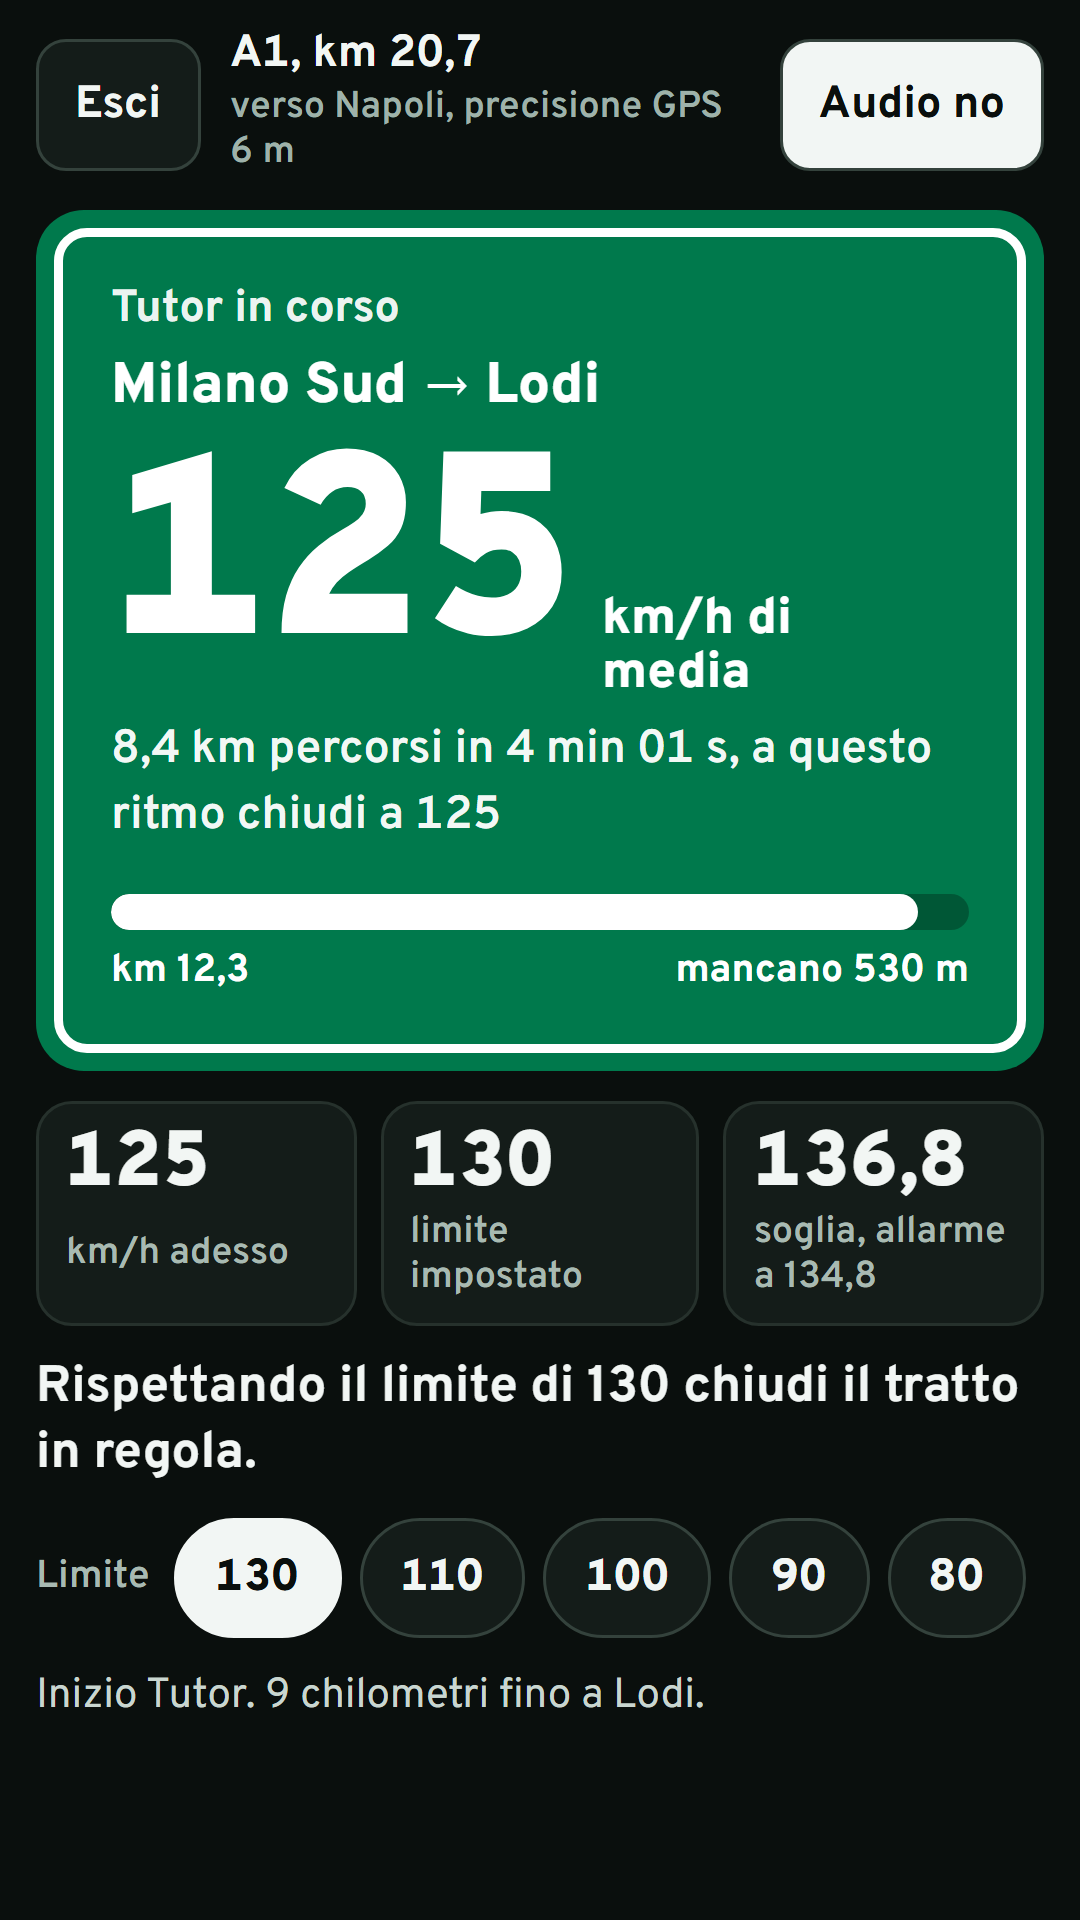
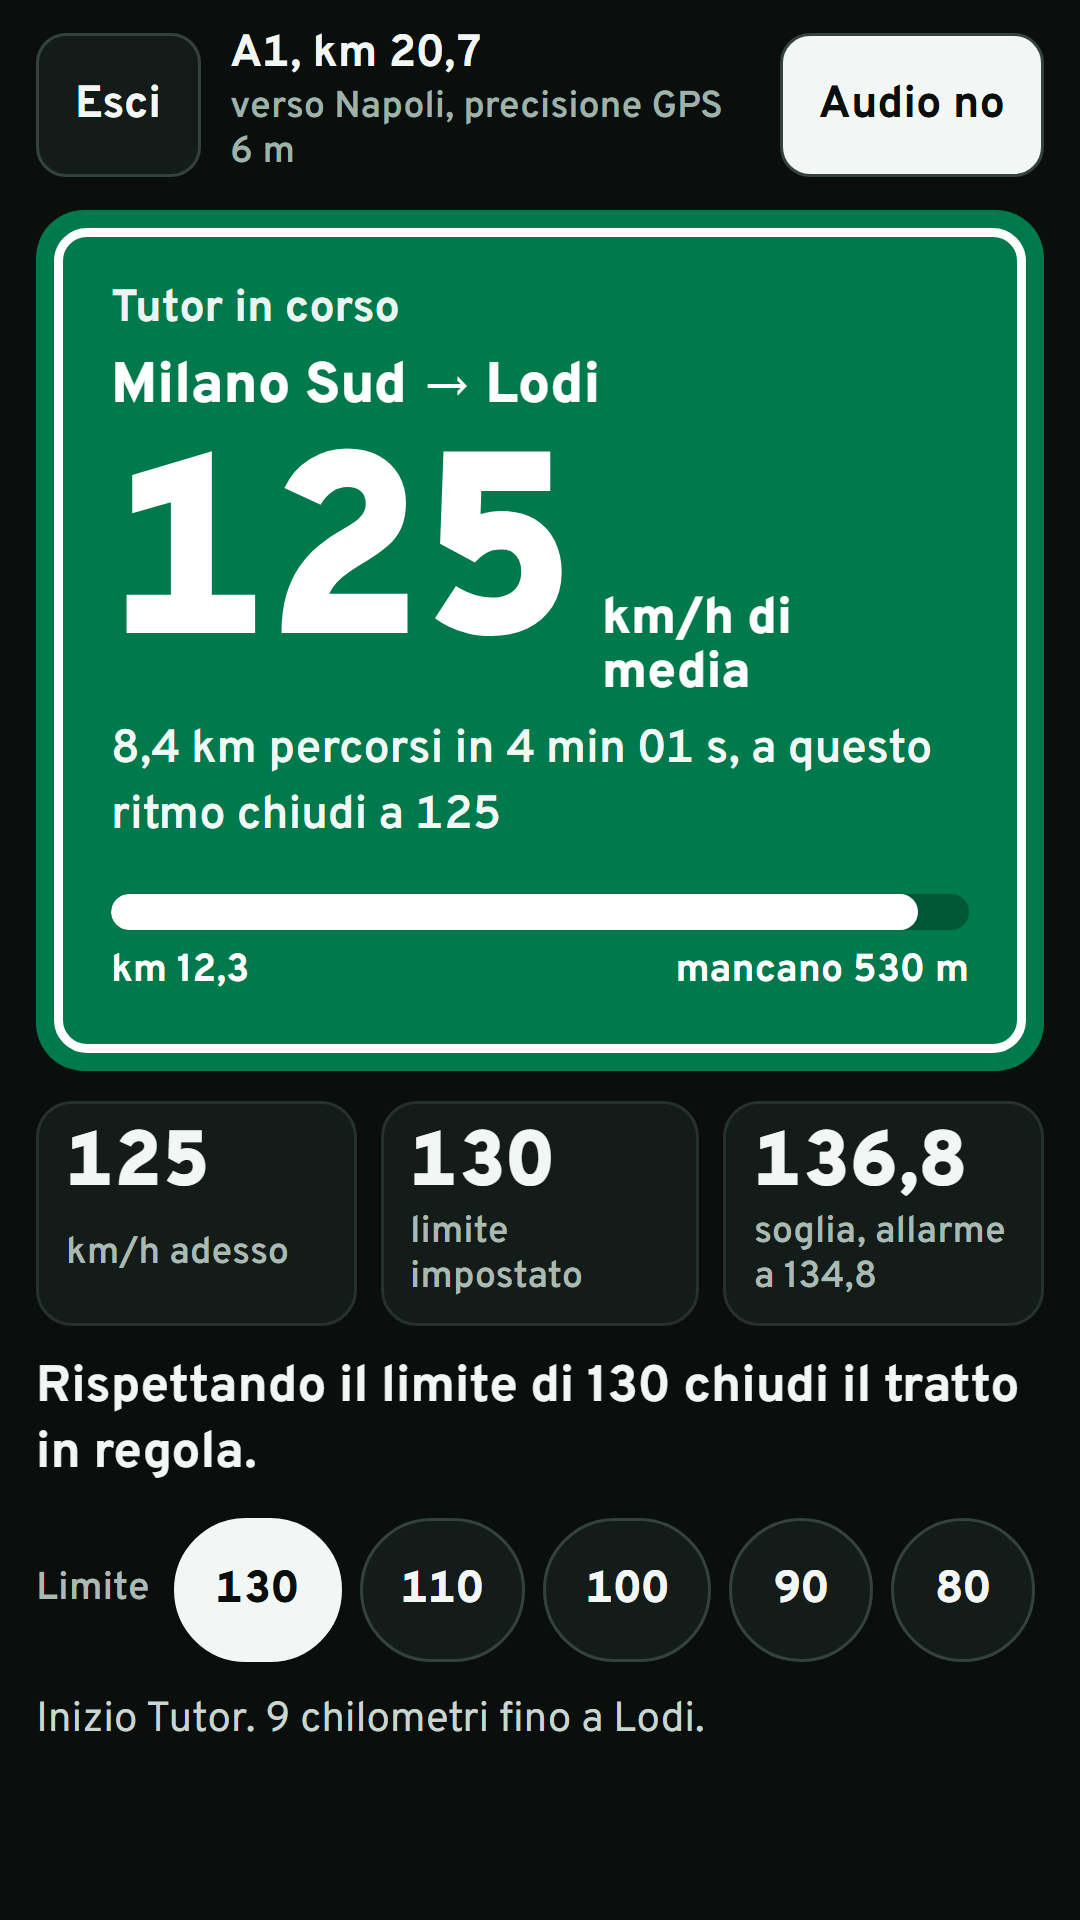
Contrasto almeno 4,5 e pulsanti di almeno 48 px
- Tema scuro: testo grigio più chiaro (#B8B4AB), rosso delle medie oltre la soglia più chiaro (#FF8F85),
  testo scuro sul pulsante verde (era bianco, contrasto 3,3).
- Pulsanti, scelte, menù a tendina, cursore del margine e righe con l'interruttore alti almeno 48 px;
  le scelte con un numero solo ("90", "×1") anche larghe almeno 48 px.
- test/accessibilita.test.js controlla contrasto e misure sullo stile, in tutti e due i temi.
- Il collaudo sul telefono ora segnala come errore contrasto sotto 4,5 e cose da toccare sotto 48 px,
  e misura anche la schermata di guida prima del portale, in allarme e a fine tratto.
- Schermate per il Play Store rifatte.

diff --git a/index.html b/index.html
@@ -29,20 +29,20 @@
 }
 @media (prefers-color-scheme: dark){
   :root:not([data-theme="light"]){
-    --bg:#2B2D30; --panel:#35383C; --panel-2:#3E4146; --ink:#ECE9E1; --muted:#ABA79E; --line:#4B4F55;
+    --bg:#2B2D30; --panel:#35383C; --panel-2:#3E4146; --ink:#ECE9E1; --muted:#B8B4AB; --line:#4B4F55;
     --road:#CFCBC0; --sign-shadow:rgba(0,0,0,.5); --tint:#24402F;
-    --brand:#17A06A; --brand-2:#0E7A4F; --on-brand:#FFFFFF;
+    --brand:#17A06A; --brand-2:#1DB97B; --on-brand:#06140D;
     --sud:#F06292; --nord:#64B5F6;
-    --focus:#8AB4F8; --ok:#4CD38A; --warn:#F2B21E; --bad:#FF6B61;
+    --focus:#8AB4F8; --ok:#4CD38A; --warn:#F2B21E; --bad:#FF8F85;
     color-scheme:dark;
   }
 }
 :root[data-theme="dark"]{
-  --bg:#2B2D30; --panel:#35383C; --panel-2:#3E4146; --ink:#ECE9E1; --muted:#ABA79E; --line:#4B4F55;
+  --bg:#2B2D30; --panel:#35383C; --panel-2:#3E4146; --ink:#ECE9E1; --muted:#B8B4AB; --line:#4B4F55;
   --road:#CFCBC0; --sign-shadow:rgba(0,0,0,.5); --tint:#24402F;
-  --brand:#17A06A; --brand-2:#0E7A4F; --on-brand:#FFFFFF;
+  --brand:#17A06A; --brand-2:#1DB97B; --on-brand:#06140D;
   --sud:#F06292; --nord:#64B5F6;
-  --focus:#8AB4F8; --ok:#4CD38A; --warn:#F2B21E; --bad:#FF6B61;
+  --focus:#8AB4F8; --ok:#4CD38A; --warn:#F2B21E; --bad:#FF8F85;
   color-scheme:dark;
 }
 html{height:100%; background:var(--bg); scroll-padding-top:env(safe-area-inset-top,0px)}
@@ -112,17 +112,17 @@ svg{flex:none}
 .menu-foot{padding:16px 24px 28px; margin:0}
 
 .btn{appearance:none; border:1.5px solid var(--line); background:var(--panel-2); color:var(--ink);
-  padding:11px 14px 9px; border-radius:10px; font-weight:700; font-size:15px; cursor:pointer; min-height:46px; text-align:center}
+  padding:11px 14px 9px; border-radius:10px; font-weight:700; font-size:15px; cursor:pointer; min-height:48px; text-align:center}
 .btn:hover{border-color:var(--muted)}
 .btn-primary{background:var(--brand); border-color:var(--brand); color:var(--on-brand)}
 .btn-primary:hover{background:var(--brand-2); border-color:var(--brand-2)}
-.btn-small{min-height:36px; padding:7px 11px 5px; font-size:14px; border-radius:8px}
+.btn-small{min-height:48px; padding:7px 11px 5px; font-size:14px; border-radius:8px}
 .note{border-left:4px solid var(--warn); background:var(--panel); padding:10px 12px; border-radius:6px; font-size:14px; margin:0}
 .note.good{border-left-color:var(--ok)}
 
 .simsetup{display:grid; gap:12px}
 .simsetup label{display:grid; gap:5px; font-weight:600; font-size:14px}
-.simsetup select,.simsetup input[type=number]{width:100%; padding:9px 10px; border-radius:8px; border:1.5px solid var(--line); background:var(--panel-2); min-height:44px}
+.simsetup select,.simsetup input[type=number]{width:100%; padding:9px 10px; border-radius:8px; border:1.5px solid var(--line); background:var(--panel-2); min-height:48px}
 .row{display:flex; gap:10px; align-items:center; flex-wrap:wrap}
 
 /* ---------- tratti: filtri ed elenco (pagina Simulazione) ---------- */
@@ -131,7 +131,7 @@ svg{flex:none}
 .lede{margin:0; color:var(--muted); font-size:14px; max-width:52ch}
 .filters{display:grid; gap:8px}
 .filter{display:flex; gap:6px; flex-wrap:wrap}
-.chip{appearance:none; border:1.5px solid var(--line); background:var(--panel); padding:6px 12px 4px; border-radius:999px; cursor:pointer; font-weight:600; font-size:14px; display:inline-flex; gap:7px; align-items:center; min-height:38px}
+.chip{appearance:none; border:1.5px solid var(--line); background:var(--panel); padding:6px 12px 4px; border-radius:999px; cursor:pointer; font-weight:600; font-size:14px; display:inline-flex; gap:7px; align-items:center; justify-content:center; min-height:48px; min-width:48px}
 .chip[aria-pressed="true"]{background:var(--ink); color:var(--bg); border-color:var(--ink)}
 .dot{width:10px; height:10px; border-radius:50%; display:inline-block}
 .dot.sud{background:var(--sud)} .dot.nord{background:var(--nord)}
@@ -156,10 +156,10 @@ svg{flex:none}
 .field small{color:var(--muted)}
 .seg{display:flex; gap:6px; flex-wrap:wrap}
 .seg .chip{font-variant-numeric:tabular-nums}
-.switch{display:flex; justify-content:space-between; align-items:center; gap:12px; font-weight:600}
+.switch{display:flex; justify-content:space-between; align-items:center; gap:12px; font-weight:600; min-height:48px}
 .switch input{width:22px; height:22px; accent-color:var(--brand)}
-input[type=range]{width:100%; accent-color:var(--brand)}
-select.sel{padding:8px 10px; border-radius:8px; border:1.5px solid var(--line); background:var(--panel-2); min-height:44px}
+input[type=range]{width:100%; height:48px; margin:0; accent-color:var(--brand)}
+select.sel{padding:8px 10px; border-radius:8px; border:1.5px solid var(--line); background:var(--panel-2); min-height:48px}
 .hist{display:grid; gap:8px; margin:0; padding:0; list-style:none}
 .hist li{background:var(--panel); border:1px solid var(--line); border-radius:12px; padding:10px 12px; font-size:14px}
 .hist .v{font-weight:800; font-variant-numeric:tabular-nums}
@@ -174,7 +174,7 @@ body.driving .app{max-width:760px}
 .hud-top{display:flex; align-items:center; gap:10px}
 .hud-top .road{flex:1; font-weight:700; font-size:15px; line-height:1.25; font-variant-numeric:tabular-nums}
 .hud-top .road small{display:block; font-weight:600; color:#9FB2AA; font-size:12.5px}
-.hbtn{appearance:none; border:1.5px solid #34423C; background:#141C19; color:#F2F6F4; border-radius:10px; padding:9px 12px 7px; font-weight:700; cursor:pointer; min-height:44px}
+.hbtn{appearance:none; border:1.5px solid #34423C; background:#141C19; color:#F2F6F4; border-radius:10px; padding:9px 12px 7px; font-weight:700; cursor:pointer; min-height:48px}
 .hbtn[aria-pressed="true"]{background:#F2F6F4; color:#0A0F0D}
 .pill{display:inline-block; background:#F2B21E; color:#1a1300; border-radius:999px; padding:2px 8px 0; font-size:12px; font-weight:800; margin-left:6px; vertical-align:2px}
 
@@ -210,7 +210,7 @@ body.driving .app{max-width:760px}
 .advice{margin:0; font-size:17px; font-weight:700; line-height:1.3; min-height:1.3em}
 .hud-limits{display:flex; gap:6px; flex-wrap:wrap; align-items:center}
 .hud-limits .lab{font-size:13px; color:#A8BAB2; font-weight:600; margin-right:2px}
-.hchip{appearance:none; border:1.5px solid #34423C; background:#141C19; color:#F2F6F4; border-radius:999px; padding:7px 13px 5px; font-weight:800; cursor:pointer; font-variant-numeric:tabular-nums; min-height:40px}
+.hchip{appearance:none; border:1.5px solid #34423C; background:#141C19; color:#F2F6F4; border-radius:999px; padding:7px 13px 5px; font-weight:800; cursor:pointer; font-variant-numeric:tabular-nums; min-height:48px; min-width:48px}
 .hchip[aria-pressed="true"]{background:#F2F6F4; color:#0A0F0D; border-color:#F2F6F4}
 .toast{font-size:14px; color:#C9D6D0; min-height:1.3em; margin:0}
 .simbar{border:1.5px dashed #F2B21E; border-radius:12px; padding:10px 12px; display:grid; gap:8px}

diff --git a/src/styles/app.css b/src/styles/app.css
@@ -14,20 +14,20 @@
 }
 @media (prefers-color-scheme: dark){
   :root:not([data-theme="light"]){
-    --bg:#2B2D30; --panel:#35383C; --panel-2:#3E4146; --ink:#ECE9E1; --muted:#ABA79E; --line:#4B4F55;
+    --bg:#2B2D30; --panel:#35383C; --panel-2:#3E4146; --ink:#ECE9E1; --muted:#B8B4AB; --line:#4B4F55;
     --road:#CFCBC0; --sign-shadow:rgba(0,0,0,.5); --tint:#24402F;
-    --brand:#17A06A; --brand-2:#0E7A4F; --on-brand:#FFFFFF;
+    --brand:#17A06A; --brand-2:#1DB97B; --on-brand:#06140D;
     --sud:#F06292; --nord:#64B5F6;
-    --focus:#8AB4F8; --ok:#4CD38A; --warn:#F2B21E; --bad:#FF6B61;
+    --focus:#8AB4F8; --ok:#4CD38A; --warn:#F2B21E; --bad:#FF8F85;
     color-scheme:dark;
   }
 }
 :root[data-theme="dark"]{
-  --bg:#2B2D30; --panel:#35383C; --panel-2:#3E4146; --ink:#ECE9E1; --muted:#ABA79E; --line:#4B4F55;
+  --bg:#2B2D30; --panel:#35383C; --panel-2:#3E4146; --ink:#ECE9E1; --muted:#B8B4AB; --line:#4B4F55;
   --road:#CFCBC0; --sign-shadow:rgba(0,0,0,.5); --tint:#24402F;
-  --brand:#17A06A; --brand-2:#0E7A4F; --on-brand:#FFFFFF;
+  --brand:#17A06A; --brand-2:#1DB97B; --on-brand:#06140D;
   --sud:#F06292; --nord:#64B5F6;
-  --focus:#8AB4F8; --ok:#4CD38A; --warn:#F2B21E; --bad:#FF6B61;
+  --focus:#8AB4F8; --ok:#4CD38A; --warn:#F2B21E; --bad:#FF8F85;
   color-scheme:dark;
 }
 html{height:100%; background:var(--bg); scroll-padding-top:env(safe-area-inset-top,0px)}
@@ -97,17 +97,17 @@ svg{flex:none}
 .menu-foot{padding:16px 24px 28px; margin:0}
 
 .btn{appearance:none; border:1.5px solid var(--line); background:var(--panel-2); color:var(--ink);
-  padding:11px 14px 9px; border-radius:10px; font-weight:700; font-size:15px; cursor:pointer; min-height:46px; text-align:center}
+  padding:11px 14px 9px; border-radius:10px; font-weight:700; font-size:15px; cursor:pointer; min-height:48px; text-align:center}
 .btn:hover{border-color:var(--muted)}
 .btn-primary{background:var(--brand); border-color:var(--brand); color:var(--on-brand)}
 .btn-primary:hover{background:var(--brand-2); border-color:var(--brand-2)}
-.btn-small{min-height:36px; padding:7px 11px 5px; font-size:14px; border-radius:8px}
+.btn-small{min-height:48px; padding:7px 11px 5px; font-size:14px; border-radius:8px}
 .note{border-left:4px solid var(--warn); background:var(--panel); padding:10px 12px; border-radius:6px; font-size:14px; margin:0}
 .note.good{border-left-color:var(--ok)}
 
 .simsetup{display:grid; gap:12px}
 .simsetup label{display:grid; gap:5px; font-weight:600; font-size:14px}
-.simsetup select,.simsetup input[type=number]{width:100%; padding:9px 10px; border-radius:8px; border:1.5px solid var(--line); background:var(--panel-2); min-height:44px}
+.simsetup select,.simsetup input[type=number]{width:100%; padding:9px 10px; border-radius:8px; border:1.5px solid var(--line); background:var(--panel-2); min-height:48px}
 .row{display:flex; gap:10px; align-items:center; flex-wrap:wrap}
 
 /* ---------- tratti: filtri ed elenco (pagina Simulazione) ---------- */
@@ -116,7 +116,7 @@ svg{flex:none}
 .lede{margin:0; color:var(--muted); font-size:14px; max-width:52ch}
 .filters{display:grid; gap:8px}
 .filter{display:flex; gap:6px; flex-wrap:wrap}
-.chip{appearance:none; border:1.5px solid var(--line); background:var(--panel); padding:6px 12px 4px; border-radius:999px; cursor:pointer; font-weight:600; font-size:14px; display:inline-flex; gap:7px; align-items:center; min-height:38px}
+.chip{appearance:none; border:1.5px solid var(--line); background:var(--panel); padding:6px 12px 4px; border-radius:999px; cursor:pointer; font-weight:600; font-size:14px; display:inline-flex; gap:7px; align-items:center; justify-content:center; min-height:48px; min-width:48px}
 .chip[aria-pressed="true"]{background:var(--ink); color:var(--bg); border-color:var(--ink)}
 .dot{width:10px; height:10px; border-radius:50%; display:inline-block}
 .dot.sud{background:var(--sud)} .dot.nord{background:var(--nord)}
@@ -141,10 +141,10 @@ svg{flex:none}
 .field small{color:var(--muted)}
 .seg{display:flex; gap:6px; flex-wrap:wrap}
 .seg .chip{font-variant-numeric:tabular-nums}
-.switch{display:flex; justify-content:space-between; align-items:center; gap:12px; font-weight:600}
+.switch{display:flex; justify-content:space-between; align-items:center; gap:12px; font-weight:600; min-height:48px}
 .switch input{width:22px; height:22px; accent-color:var(--brand)}
-input[type=range]{width:100%; accent-color:var(--brand)}
-select.sel{padding:8px 10px; border-radius:8px; border:1.5px solid var(--line); background:var(--panel-2); min-height:44px}
+input[type=range]{width:100%; height:48px; margin:0; accent-color:var(--brand)}
+select.sel{padding:8px 10px; border-radius:8px; border:1.5px solid var(--line); background:var(--panel-2); min-height:48px}
 .hist{display:grid; gap:8px; margin:0; padding:0; list-style:none}
 .hist li{background:var(--panel); border:1px solid var(--line); border-radius:12px; padding:10px 12px; font-size:14px}
 .hist .v{font-weight:800; font-variant-numeric:tabular-nums}
@@ -159,7 +159,7 @@ body.driving .app{max-width:760px}
 .hud-top{display:flex; align-items:center; gap:10px}
 .hud-top .road{flex:1; font-weight:700; font-size:15px; line-height:1.25; font-variant-numeric:tabular-nums}
 .hud-top .road small{display:block; font-weight:600; color:#9FB2AA; font-size:12.5px}
-.hbtn{appearance:none; border:1.5px solid #34423C; background:#141C19; color:#F2F6F4; border-radius:10px; padding:9px 12px 7px; font-weight:700; cursor:pointer; min-height:44px}
+.hbtn{appearance:none; border:1.5px solid #34423C; background:#141C19; color:#F2F6F4; border-radius:10px; padding:9px 12px 7px; font-weight:700; cursor:pointer; min-height:48px}
 .hbtn[aria-pressed="true"]{background:#F2F6F4; color:#0A0F0D}
 .pill{display:inline-block; background:#F2B21E; color:#1a1300; border-radius:999px; padding:2px 8px 0; font-size:12px; font-weight:800; margin-left:6px; vertical-align:2px}
 
@@ -195,7 +195,7 @@ body.driving .app{max-width:760px}
 .advice{margin:0; font-size:17px; font-weight:700; line-height:1.3; min-height:1.3em}
 .hud-limits{display:flex; gap:6px; flex-wrap:wrap; align-items:center}
 .hud-limits .lab{font-size:13px; color:#A8BAB2; font-weight:600; margin-right:2px}
-.hchip{appearance:none; border:1.5px solid #34423C; background:#141C19; color:#F2F6F4; border-radius:999px; padding:7px 13px 5px; font-weight:800; cursor:pointer; font-variant-numeric:tabular-nums; min-height:40px}
+.hchip{appearance:none; border:1.5px solid #34423C; background:#141C19; color:#F2F6F4; border-radius:999px; padding:7px 13px 5px; font-weight:800; cursor:pointer; font-variant-numeric:tabular-nums; min-height:48px; min-width:48px}
 .hchip[aria-pressed="true"]{background:#F2F6F4; color:#0A0F0D; border-color:#F2F6F4}
 .toast{font-size:14px; color:#C9D6D0; min-height:1.3em; margin:0}
 .simbar{border:1.5px dashed #F2B21E; border-radius:12px; padding:10px 12px; display:grid; gap:8px}

diff --git a/test/accessibilita.test.js b/test/accessibilita.test.js
@@ -1,0 +1,50 @@
+// Leggibilità e comodità al tocco, controllate sullo stile (src/styles/app.css) in tutti e due i temi.
+// Il collaudo sul telefono (npm run device-check) misura lo stesso sulla pagina vera.
+import { test } from 'node:test';
+import assert from 'node:assert/strict';
+import { readFileSync } from 'node:fs';
+
+const css = readFileSync(new URL('../src/styles/app.css', import.meta.url), 'utf8');
+const vars = block => Object.fromEntries([...block.matchAll(/--([\w-]+):\s*(#[0-9A-Fa-f]{6})/g)].map(m => [m[1], m[2]]));
+const light = vars(css.match(/:root\{([^}]*)\}/)[1]);
+const dark = {...light, ...vars(css.match(/:root\[data-theme="dark"\]\{([^}]*)\}/)[1])};
+const lum = hex => { const f = v => { v /= 255; return v <= 0.03928 ? v/12.92 : ((v + 0.055)/1.055)**2.4; };
+  const n = parseInt(hex.slice(1), 16); return 0.2126*f(n >> 16) + 0.7152*f((n >> 8) & 255) + 0.0722*f(n & 255); };
+const ratio = (a, b) => { const x = lum(a), y = lum(b); return (Math.max(x, y) + 0.05)/(Math.min(x, y) + 0.05); };
+
+// testo su sfondo, come li usa lo stile
+const PAIRS = [['ink', 'bg'], ['ink', 'panel'], ['ink', 'panel-2'], ['muted', 'bg'], ['muted', 'panel'], ['muted', 'panel-2'],
+  ['on-brand', 'brand'], ['on-brand', 'brand-2'], ['bg', 'ink'],
+  ['ok', 'panel'], ['warn', 'panel'], ['bad', 'panel']];
+
+for (const [name, theme] of [['chiaro', light], ['scuro', dark]]){
+  test('tema ' + name + ': ogni testo ha contrasto almeno 4,5 con il suo sfondo', () => {
+    const bad = PAIRS.filter(([fg, bg]) => ratio(theme[fg], theme[bg]) < 4.5)
+      .map(([fg, bg]) => fg + ' su ' + bg + ' ' + ratio(theme[fg], theme[bg]).toFixed(2));
+    assert.deepEqual(bad, []);
+  });
+}
+
+test('il tema scuro è davvero diverso da quello chiaro (le variabili ci sono tutte e due le volte)', () => {
+  const block = css.match(/@media \(prefers-color-scheme: dark\)\{\s*:root:not\(\[data-theme="light"\]\)\{([^}]*)\}/)[1];
+  assert.deepEqual(vars(block), vars(css.match(/:root\[data-theme="dark"\]\{([^}]*)\}/)[1]));
+});
+
+// Android consiglia almeno 48 dp per tutto quello che si tocca
+test('pulsanti, scelte, menù a tendina e cursori alti almeno 48 px', () => {
+  const rule = sel => {
+    const i = css.indexOf('\n' + sel + '{');
+    assert.ok(i >= 0, 'manca la regola ' + sel);
+    return css.slice(i, css.indexOf('}', i));
+  };
+  const small = [];
+  for (const sel of ['.btn', '.btn-small', '.chip', '.hbtn', '.hchip', 'select.sel', '.simsetup select,.simsetup input[type=number]', 'input[type=range]', '.iconbtn']){
+    const r = rule(sel), h = r.match(/(?:min-)?height:(\d+)px/);
+    if (!h || +h[1] < 48) small.push(sel + ' ' + (h ? h[1] : '?') + ' px');
+  }
+  // le scelte con un numero solo ("90", "×1") sarebbero più strette di 48 px; le righe con l'interruttore si toccano tutte
+  for (const sel of ['.chip', '.hchip']){ const w = rule(sel).match(/min-width:(\d+)px/); if (!w || +w[1] < 48) small.push(sel + ' larghezza ' + (w ? w[1] : '?') + ' px'); }
+  const sw = rule('.switch').match(/min-height:(\d+)px/);
+  if (!sw || +sw[1] < 48) small.push('.switch ' + (sw ? sw[1] : '?') + ' px');
+  assert.deepEqual(small, []);
+});
